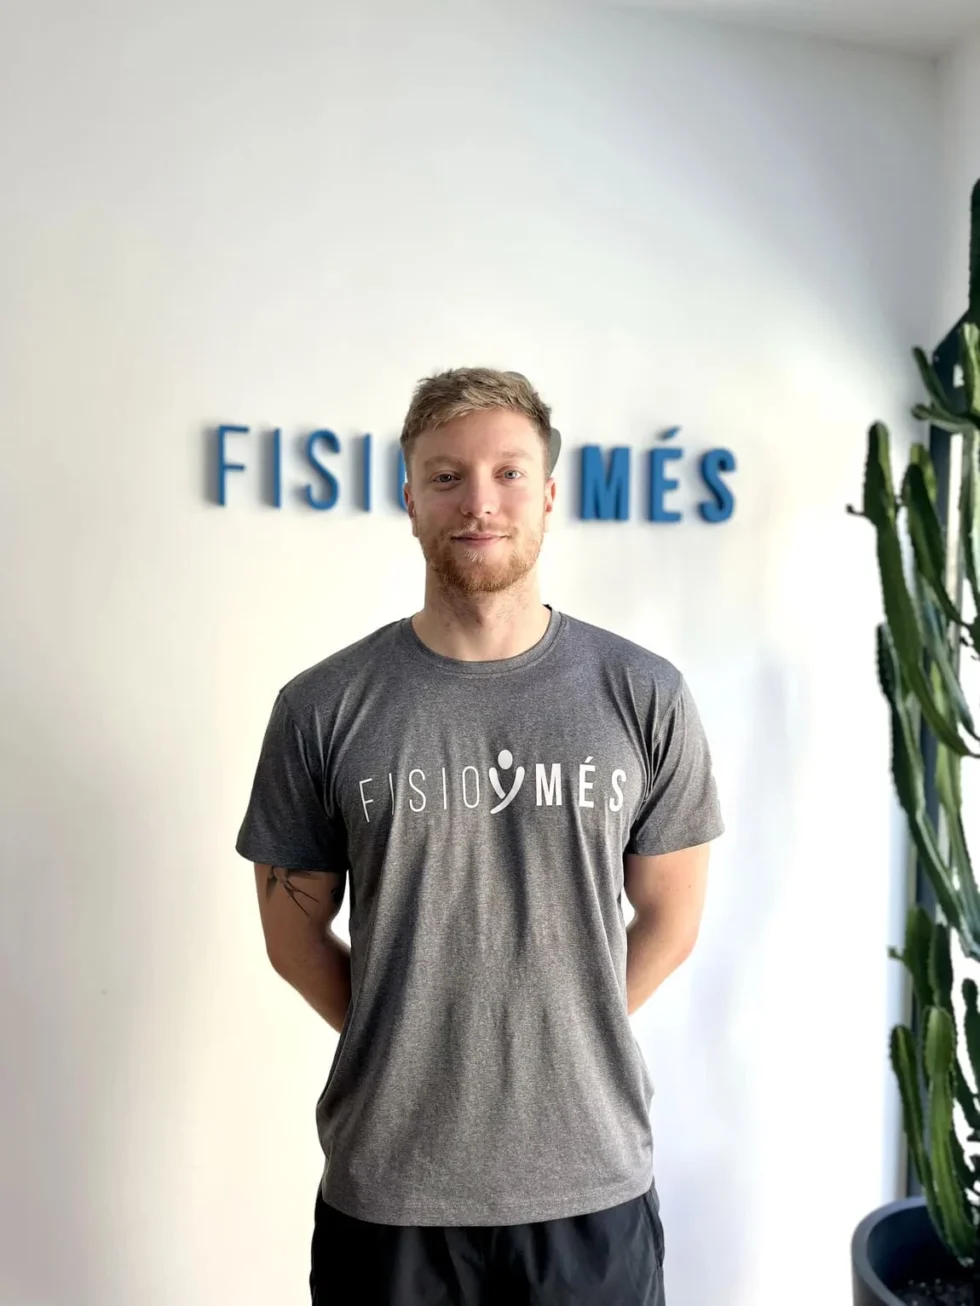
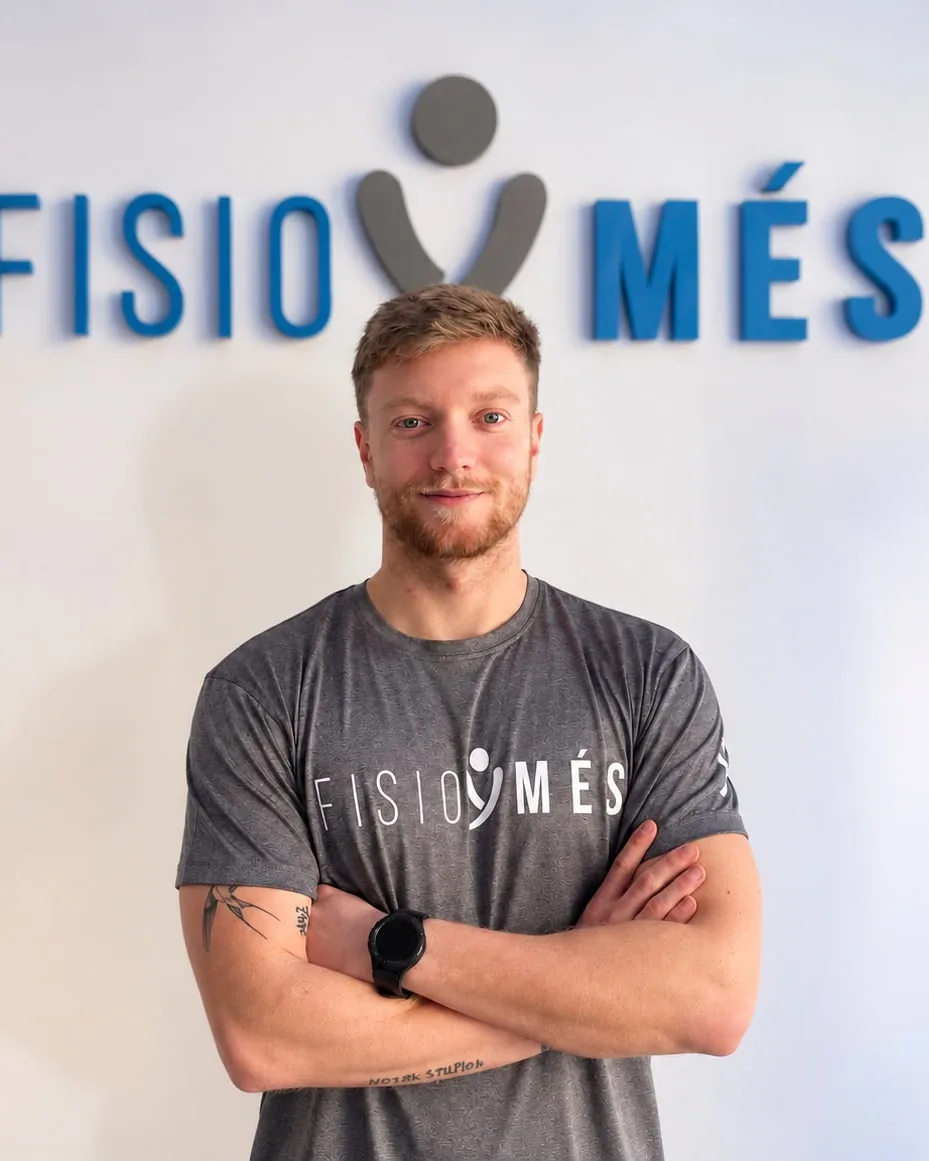
Update team photos for Raúl, Dylan, Guillem and Marina
New photos cropped to 4:5 portrait and converted to WebP.

Claude-Session: https://claude.ai/code/session_018gJVY7kHHmhTAQu13wdVxi

diff --git a/src/data/content.ts b/src/data/content.ts
@@ -355,16 +355,16 @@ export const teamList: Record<Lang, TeamMember[]> = {
     { img: B + 'assets/team-LAIA-TEIXIDO.jpg', name: 'Laia Teixidó', role: 'Fisioterapeuta especialitzada en sòl pelvià', col: 'Col. 11.959', bullets: ['Fisioteràpia uroginecològica: postpart i disfuncions del sòl pelvià', 'Punció seca', 'Gimnàstica abdominal hipopressiva', 'Exercici terapèutic en l’embaràs', 'Mètode Pilates sòl', 'Ecografia musculoesquelètica'], bio: ['Amb més de 10 anys d’experiència en fisioteràpia del sòl pelvià, la Laia destaca per la seva proximitat, sensibilitat i vocació per cuidar. Creu en l’acompanyament individualitzat i en la importància d’escoltar cada pacient per oferir el millor tractament possible. La seva passió per aquesta especialitat la porta a formar-se contínuament per incorporar les tècniques i coneixements més actuals. T’acompanyarà amb confiança, professionalitat i empatia durant tot el teu embaràs, des del primer dia, i en qualsevol etapa de la teva salut pelviana.'] },
     { img: B + 'assets/team-raulSerra.webp', name: 'Raúl Serra', role: 'Especialista en teràpia manual', col: 'Col. 4212 (CFC)', bullets: ['+20 anys d’experiència', 'Disfuncions cràniomandibulars i ATM', 'Punció seca i dolor miofascial', 'Ones de xoc', 'Fisioteràpia i massatge esportiu'], bio: ['Amb més de 25 anys d’experiència en el món de la fisioteràpia, en Raúl és un professional amb una gran vocació per cuidar les persones. Especialista en teràpia manual i massoteràpia, destaca per les seves mans expertes i per la seva capacitat per tractar tota mena de dolors musculoesquelètics, especialment els problemes d’esquena. El seu tracte proper, la seva capacitat d’escolta i la seva dedicació fan que cada pacient se senti acompanyat i en bones mans durant tot el procés de recuperació.'] },
     { img: B + 'assets/team-Dylan-Koelma.webp', name: 'Dylan Koelma', role: 'Fisioterapeuta esportiu', col: 'Col. 17.166', bullets: ['Postgrau Expert en Diagnòstic Diferencial (2025)', 'Formació en Indiba Activ', 'Punció seca', 'Neuromodulació en patologia clínica', 'Especialista en exercici terapèutic'], bio: ['En Dylan és un fisioterapeuta esportiu apassionat pel moviment i el rendiment físic. Entén l’esport des de dins i treballa perquè cada pacient pugui recuperar-se amb seguretat i tornar a fer allò que més li agrada. La seva inquietud el porta a formar-se contínuament per oferir els tractaments més actuals.'] },
-    { img: B + 'assets/team-guillem-armengol.jpg', name: 'Guillem Armengol Diego', role: 'Fisioterapeuta', col: 'Col. 17752', bullets: ['Grau en Fisioteràpia – Escoles Universitàries Gimbernat (UAB)', 'Màster en Readaptació Esportiva – Universitat Blanquerna (en curs)', 'Formació en Punció Seca', 'Formació en Thrust (manipulacions vertebrals i perifèriques)', 'Formació en Biomecànica del peu', 'Formació en Quiromassatge'], bio: ['En Guillem destaca per la seva implicació i pel seu enfocament actiu de la fisioteràpia. Amant de l’esport i de la readaptació, acompanya cada pacient amb proximitat i professionalitat, apostant sempre per una formació constant i basada en l’evidència científica.'] },
-    { img: B + 'assets/team-marina-marti.jpg', name: 'Marina Martí Casado', role: 'Fisioterapeuta', col: 'Col. 17890', bullets: ['Grau en Fisioteràpia (Menció en Aparell Locomotor)', 'Postgrau en Fisioteràpia Invasiva (ecografia, neuromodulació, neuroeix i electròlisi)', 'Seminaris Travell & Simons – Punció seca', 'Indiba Academy: musculoesquelètic i dermatofuncional'], bio: ['La Marina viu la fisioteràpia amb entusiasme i dedicació. Especialitzada en l’àmbit esportiu, combina un tracte proper amb una actualització constant dels seus coneixements per ajudar cada pacient a recuperar-se, prevenir lesions i assolir els seus objectius.'] },
+    { img: B + 'assets/team-guillem-armengol.webp', name: 'Guillem Armengol Diego', role: 'Fisioterapeuta', col: 'Col. 17752', bullets: ['Grau en Fisioteràpia – Escoles Universitàries Gimbernat (UAB)', 'Màster en Readaptació Esportiva – Universitat Blanquerna (en curs)', 'Formació en Punció Seca', 'Formació en Thrust (manipulacions vertebrals i perifèriques)', 'Formació en Biomecànica del peu', 'Formació en Quiromassatge'], bio: ['En Guillem destaca per la seva implicació i pel seu enfocament actiu de la fisioteràpia. Amant de l’esport i de la readaptació, acompanya cada pacient amb proximitat i professionalitat, apostant sempre per una formació constant i basada en l’evidència científica.'] },
+    { img: B + 'assets/team-marina-marti.webp', name: 'Marina Martí Casado', role: 'Fisioterapeuta', col: 'Col. 17890', bullets: ['Grau en Fisioteràpia (Menció en Aparell Locomotor)', 'Postgrau en Fisioteràpia Invasiva (ecografia, neuromodulació, neuroeix i electròlisi)', 'Seminaris Travell & Simons – Punció seca', 'Indiba Academy: musculoesquelètic i dermatofuncional'], bio: ['La Marina viu la fisioteràpia amb entusiasme i dedicació. Especialitzada en l’àmbit esportiu, combina un tracte proper amb una actualització constant dels seus coneixements per ajudar cada pacient a recuperar-se, prevenir lesions i assolir els seus objectius.'] },
   ],
   es: [
     { img: B + 'assets/team-DIANA-LLONGUERAS.jpg', name: 'Diana Llongueras Boqué', role: 'Directora de Fisioymés', col: 'Col. 12.476', bullets: ['Máster en Fisioterapia del Deporte y Readaptación Deportiva', 'Graduada en Fisioterapia por la Escuela Universitaria Gimbernat', 'Ecografía musculoesquelética aplicada al diagnóstico y al tratamiento', 'Síndrome de Dolor Miofascial (Travell & Simons)', 'Fibrólisis Instrumental Miofascial (Ganchos)', 'Fisioestética Avanzada (Winback Academy)', 'Formación en terapias invasivas ecoguiadas'], bio: ['Fisioterapeuta especializada en fisioterapia avanzada y ecoguiada.', 'Desde el inicio de mi trayectoria profesional he apostado por una fisioterapia basada en la evidencia científica, la tecnología y el tratamiento individualizado. Como directora de Fisioymés, mi objetivo es ofrecer una atención de máxima calidad, combinando una valoración exhaustiva con las técnicas más innovadoras para ayudar a cada paciente a recuperarse de la manera más eficiente posible.'] },
     { img: B + 'assets/team-LAIA-TEIXIDO.jpg', name: 'Laia Teixidó', role: 'Fisioterapeuta especializada en suelo pélvico', col: 'Col. 11.959', bullets: ['Fisioterapia uroginecológica: postparto y disfunciones del suelo pélvico', 'Punción seca', 'Gimnasia abdominal hipopresiva', 'Ejercicio terapéutico en el embarazo', 'Método Pilates suelo', 'Ecografía musculoesquelética'], bio: ['Con más de 10 años de experiencia en fisioterapia del suelo pélvico, Laia destaca por su cercanía, sensibilidad y vocación por cuidar. Cree en el acompañamiento individualizado y en la importancia de escuchar a cada paciente para ofrecer el mejor tratamiento posible. Su pasión por esta especialidad la lleva a formarse continuamente para incorporar las técnicas y conocimientos más actuales. Te acompañará con confianza, profesionalidad y empatía durante todo tu embarazo, desde el primer día, y en cualquier etapa de tu salud pélvica.'] },
     { img: B + 'assets/team-raulSerra.webp', name: 'Raúl Serra', role: 'Especialista en terapia manual', col: 'Col. 4212 (CFC)', bullets: ['+20 años de experiencia', 'Disfunciones craneomandibulares y ATM', 'Punción seca y dolor miofascial', 'Ondas de choque', 'Fisioterapia y masaje deportivo'], bio: ['Con más de 25 años de experiencia en el mundo de la fisioterapia, Raúl es un profesional con una gran vocación por cuidar a las personas. Especialista en terapia manual y masoterapia, destaca por sus manos expertas y por su capacidad para tratar todo tipo de dolores musculoesqueléticos, especialmente los problemas de espalda. Su trato cercano, su capacidad de escucha y su dedicación hacen que cada paciente se sienta acompañado y en buenas manos durante todo el proceso de recuperación.'] },
     { img: B + 'assets/team-Dylan-Koelma.webp', name: 'Dylan Koelma', role: 'Fisioterapeuta deportivo', col: 'Col. 17.166', bullets: ['Posgrado Experto en Diagnóstico Diferencial (2025)', 'Formación en Indiba Activ', 'Punción seca', 'Neuromodulación en patología clínica', 'Especialista en ejercicio terapéutico'], bio: ['Dylan es un fisioterapeuta deportivo apasionado por el movimiento y el rendimiento físico. Entiende el deporte desde dentro y trabaja para que cada paciente pueda recuperarse con seguridad y volver a hacer aquello que más le gusta. Su inquietud le lleva a formarse continuamente para ofrecer los tratamientos más actuales.'] },
-    { img: B + 'assets/team-guillem-armengol.jpg', name: 'Guillem Armengol Diego', role: 'Fisioterapeuta', col: 'Col. 17752', bullets: ['Grado en Fisioterapia – Escuelas Universitarias Gimbernat (UAB)', 'Máster en Readaptación Deportiva – Universidad Blanquerna (en curso)', 'Formación en Punción Seca', 'Formación en Thrust (manipulaciones vertebrales y periféricas)', 'Formación en Biomecánica del pie', 'Formación en Quiromasaje'], bio: ['Guillem destaca por su implicación y por su enfoque activo de la fisioterapia. Amante del deporte y de la readaptación, acompaña a cada paciente con cercanía y profesionalidad, apostando siempre por una formación constante y basada en la evidencia científica.'] },
-    { img: B + 'assets/team-marina-marti.jpg', name: 'Marina Martí Casado', role: 'Fisioterapeuta', col: 'Col. 17890', bullets: ['Grado en Fisioterapia (Mención en Aparato Locomotor)', 'Posgrado en Fisioterapia Invasiva (ecografía, neuromodulación, neuroeje y electrólisis)', 'Seminarios Travell & Simons – Punción seca', 'Indiba Academy: musculoesquelético y dermatofuncional'], bio: ['Marina vive la fisioterapia con entusiasmo y dedicación. Especializada en el ámbito deportivo, combina un trato cercano con una actualización constante de sus conocimientos para ayudar a cada paciente a recuperarse, prevenir lesiones y alcanzar sus objetivos.'] },
+    { img: B + 'assets/team-guillem-armengol.webp', name: 'Guillem Armengol Diego', role: 'Fisioterapeuta', col: 'Col. 17752', bullets: ['Grado en Fisioterapia – Escuelas Universitarias Gimbernat (UAB)', 'Máster en Readaptación Deportiva – Universidad Blanquerna (en curso)', 'Formación en Punción Seca', 'Formación en Thrust (manipulaciones vertebrales y periféricas)', 'Formación en Biomecánica del pie', 'Formación en Quiromasaje'], bio: ['Guillem destaca por su implicación y por su enfoque activo de la fisioterapia. Amante del deporte y de la readaptación, acompaña a cada paciente con cercanía y profesionalidad, apostando siempre por una formación constante y basada en la evidencia científica.'] },
+    { img: B + 'assets/team-marina-marti.webp', name: 'Marina Martí Casado', role: 'Fisioterapeuta', col: 'Col. 17890', bullets: ['Grado en Fisioterapia (Mención en Aparato Locomotor)', 'Posgrado en Fisioterapia Invasiva (ecografía, neuromodulación, neuroeje y electrólisis)', 'Seminarios Travell & Simons – Punción seca', 'Indiba Academy: musculoesquelético y dermatofuncional'], bio: ['Marina vive la fisioterapia con entusiasmo y dedicación. Especializada en el ámbito deportivo, combina un trato cercano con una actualización constante de sus conocimientos para ayudar a cada paciente a recuperarse, prevenir lesiones y alcanzar sus objetivos.'] },
   ],
 };
 
